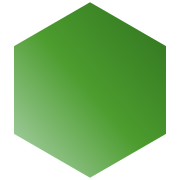
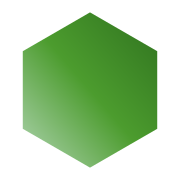
feat: default to light, shrink the mark and put it in the header
Light is now the default rather than the OS preference. This is a public map
people arrive at from a link, and it should look like the screenshot they came
from; dark is a choice someone makes, which is then remembered. Verified with an
OS set to dark and no stored preference: renders light, and an explicit choice
still survives a reload.

The favicon hexagon ran almost edge to edge in its viewBox. A tab strip renders
icons hard against their neighbours, and a shape touching its own bounds reads
as a solid block rather than as a hexagon, so it is inset now, still legible at
16px on both a light and a dark tab bar, which is the only size that decides it.

The same mark sits beside the wordmark as a logo. It is decorative there: the
<h1> next to it already says the name, and a labelled image beside it makes a
screen reader announce BioFrontier SC twice. The component is therefore silent
unless given a `label`, which is the case the favicon needs and the header does
not. Its gradient id comes from useId, because an SVG gradient is referenced by
id and two marks sharing one would make the second paint from the first's
definition.

Changed region(s): [[0.0556, 0.0, 0.9444, 1.0]]

diff --git a/src/components/shell/AppShell.tsx b/src/components/shell/AppShell.tsx
@@ -15,6 +15,7 @@ import ExportButton from '@/features/export/ExportButton'
 import DonateModal from '@/features/donate/DonateModal'
 import { useCommunitySubmissions } from '@/hooks/useCommunitySubmissions'
 import ThemeToggle from '@/components/ui/ThemeToggle'
+import Mark from '@/components/ui/Mark'
 
 /** Hexbins shown in the ranking sidebar, and the default CSV export scope. */
 const RANKING_LIMIT = 20
@@ -68,13 +69,20 @@ export default function AppShell() {
     <div className="flex flex-col h-full">
       {/* Top bar */}
       <header className="relative flex items-center justify-between px-3 py-2 sm:px-5 sm:py-3 bg-panel border-b border-slate-200 shrink-0 z-10">
-        <div>
-          <h1 className="text-base font-bold text-slate-900 tracking-tight font-condensed uppercase leading-none">
-            BioFrontier SC
-          </h1>
-          <p className="text-xs text-slate-500 mt-0.5 hidden sm:block">
-            {t('tagline')}
-          </p>
+        <div className="flex items-center gap-2.5">
+          {/* Decorative here: the <h1> beside it already says the name, and a
+              second announcement would just make a screen reader read it
+              twice. The mark carries its own label in the favicon, where there
+              is no text next to it. */}
+          <Mark size={26} className="shrink-0" />
+          <div>
+            <h1 className="text-base font-bold text-slate-900 tracking-tight font-condensed uppercase leading-none">
+              BioFrontier SC
+            </h1>
+            <p className="text-xs text-slate-500 mt-0.5 hidden sm:block">
+              {t('tagline')}
+            </p>
+          </div>
         </div>
         <div className="flex items-center gap-3">
           <TaxonSelector

diff --git a/src/app/[locale]/layout.tsx b/src/app/[locale]/layout.tsx
@@ -51,15 +51,19 @@ export default async function RootLayout({
     >
       <head>
         {/* Runs before first paint, which is the whole point: React cannot set
-            this without rendering first, and a dark-mode user would get a full
-            white flash on every navigation. Reads the saved choice, falls back
-            to the OS preference, and writes the class the stylesheet keys on.
-            Wrapped in try/catch because localStorage throws outright in some
-            privacy modes, a theme is not worth a blank page. */}
+            this without rendering first, so a returning dark-mode reader would
+            get a full white flash on every navigation.
+
+            Light is the default rather than the OS preference. This is a public
+            map that people arrive at from a link, and it should look the same
+            as the screenshot they came from; the dark theme is a choice someone
+            makes, which is then remembered. Wrapped in try/catch because
+            localStorage throws outright in some privacy modes: a theme is not
+            worth a blank page. */}
         <script
           dangerouslySetInnerHTML={{
             __html: `(function(){try{var t=localStorage.getItem('biofrontier-theme');`
-              + `if(t!=='light'&&t!=='dark'){t=window.matchMedia('(prefers-color-scheme: dark)').matches?'dark':'light'}`
+              + `if(t!=='light'&&t!=='dark'){t='light'}`
               + `var e=document.documentElement;if(t==='dark'){e.classList.add('dark')}`
               + `e.style.colorScheme=t}catch(_){}})()`,
           }}

diff --git a/src/components/ui/Mark.tsx b/src/components/ui/Mark.tsx
@@ -1,0 +1,50 @@
+'use client'
+
+import { useId } from 'react'
+
+/**
+ * The BioFrontier mark: one H3 cell carrying the frontier ramp across it, so
+ * the logo is the legend. Same geometry and same stops as `src/app/icon.svg`,
+ * if one moves, move the other.
+ *
+ * The gradient id comes from useId because a gradient is referenced by id from
+ * the fill, and two marks on a page with the same id would make the second one
+ * paint from the first one's definition. It costs nothing to be safe here.
+ *
+ * Decorative by default. Beside the wordmark in the header there is already an
+ * <h1> saying the name, and a labelled image next to it makes a screen reader
+ * announce the same thing twice. Pass `label` only where the mark stands alone
+ * and has to speak for itself.
+ */
+export default function Mark({
+  size = 22,
+  className,
+  label,
+}: {
+  size?: number
+  className?: string
+  label?: string
+}) {
+  const id = useId()
+  return (
+    <svg
+      width={size}
+      height={size}
+      viewBox="0 0 32 32"
+      className={className}
+      {...(label ? { role: 'img', 'aria-label': label } : { 'aria-hidden': true })}
+    >
+      <defs>
+        <linearGradient id={id} x1="0" y1="1" x2="1" y2="0">
+          <stop offset="0%" stopColor="#b2d6b4" />
+          <stop offset="50%" stopColor="#4c9c2e" />
+          <stop offset="100%" stopColor="#2f721f" />
+        </linearGradient>
+      </defs>
+      <polygon
+        points="16.00,2.20 4.05,9.10 4.05,22.90 16.00,29.80 27.95,22.90 27.95,9.10"
+        fill={`url(#${id})`}
+      />
+    </svg>
+  )
+}
